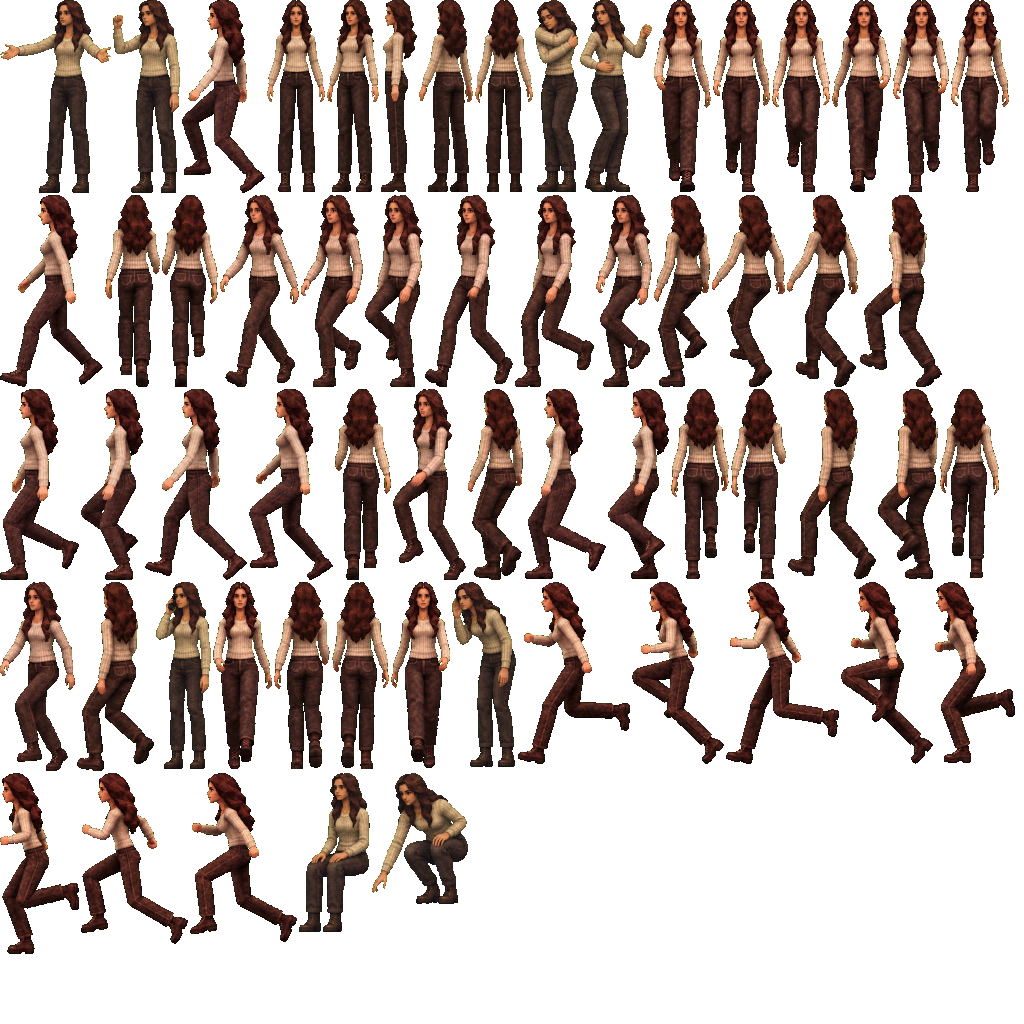
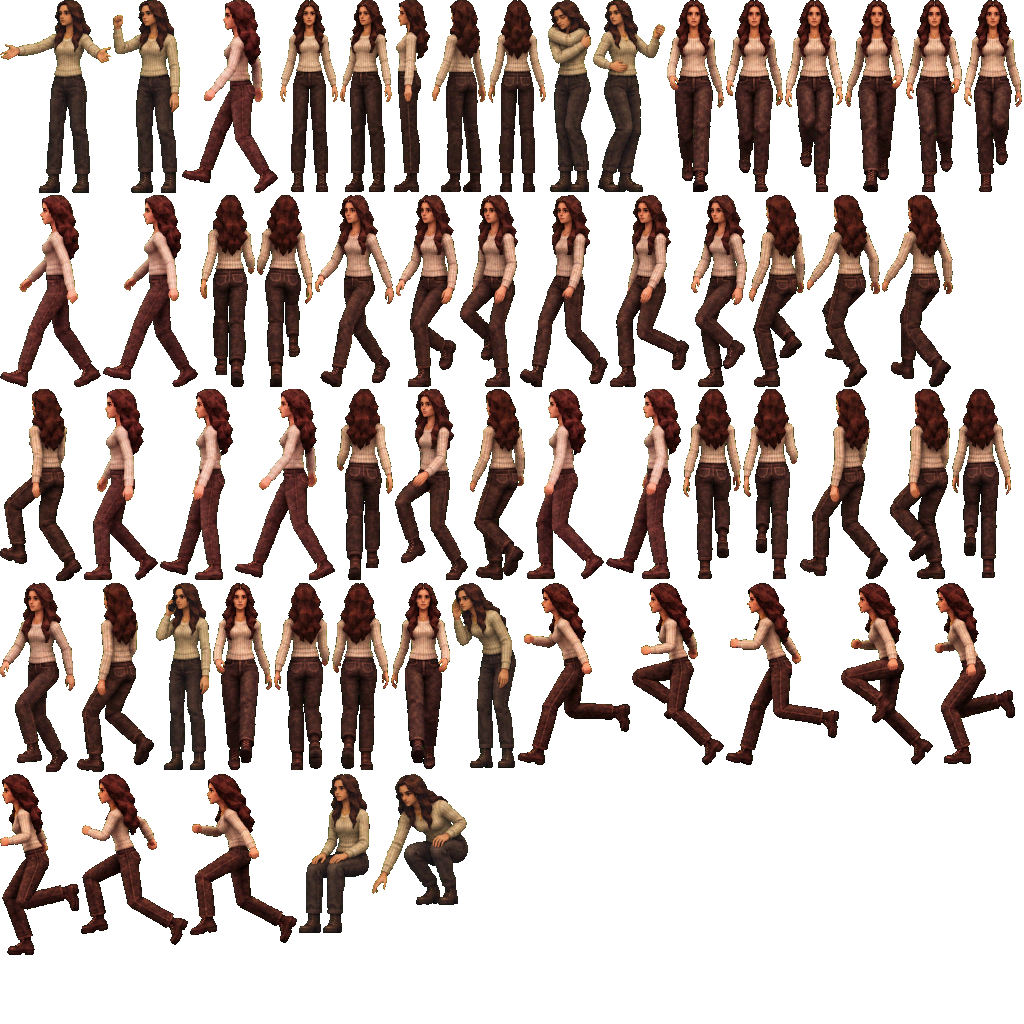
Smartphone UI and natural side walks
- Messages show on a dark smartphone (status bar, contact, chat bubbles)
  instead of the flip phone; wording says put the phone away
- New GPT side-walk cycles for Rufki and Argjila with low, natural steps;
  even timing for them (weighted timing stays on the diagonal cycles)

Claude-Session: https://claude.ai/code/session_01SGdApBhSdjRp9Ng7MrzK8h

diff --git a/one-minute-away/index.html b/one-minute-away/index.html
@@ -160,16 +160,21 @@ body.modal #hud { opacity: 0; }
 .page.sealed .ptext span { display: block; font-size: 0.75em; color: var(--dim); margin-top: calc(var(--u) * 4); }
 
 /* ---------- flip phone ---------- */
-.phone { position: absolute; inset: 0; background: rgba(0, 0, 0, 0.6); }
-.pshell { position: absolute; left: 50%; top: calc(var(--u) * 6); height: calc(var(--u) * 228); transform: translateX(-62%) rotate(-4deg); image-rendering: pixelated; opacity: 0.95; }
-.pscreen { position: absolute; left: calc(var(--u) * 116); top: calc(var(--u) * 46); width: calc(var(--u) * 88); height: calc(var(--u) * 62); background: #9fb08a;
-  color: #1d2a1a; border: calc(var(--u) * 1) solid #2a3226; display: flex; flex-direction: column; font-size: calc(var(--u) * 7); overflow: hidden; box-shadow: inset 0 0 calc(var(--u) * 6) rgba(0,0,0,0.35); }
-.phead { display: flex; justify-content: space-between; padding: 0 calc(var(--u) * 2); background: #2a3226; color: #b7c8a0; font-size: calc(var(--u) * 6.5); }
-.pbody { flex: 1; overflow: hidden; padding: calc(var(--u) * 1.5); display: flex; flex-direction: column; gap: calc(var(--u) * 1.5); justify-content: flex-end; }
-.pmsg { line-height: 1; max-width: 92%; }
-.pmsg.me { align-self: flex-end; text-align: right; }
-.pmsg i { display: block; font-style: normal; font-size: 0.8em; opacity: 0.6; }
-.popts { position: absolute; left: calc(var(--u) * 200); right: calc(var(--u) * 10); bottom: calc(var(--u) * 30); background: var(--panel); border: var(--u) solid var(--amber); padding: calc(var(--u) * 4); }
+.phone { position: absolute; inset: 0; background: rgba(0, 0, 0, 0.62); }
+.pwrap { position: absolute; left: calc(var(--u) * 46); top: calc(var(--u) * 10); height: calc(var(--u) * 220); aspect-ratio: 184 / 360; transform: rotate(-3deg); filter: drop-shadow(0 calc(var(--u) * 4) calc(var(--u) * 6) #000); }
+.pshell { position: absolute; inset: 0; width: 100%; height: 100%; image-rendering: pixelated; }
+.pscreen { position: absolute; left: 8.8%; right: 8.2%; top: 10.4%; bottom: 8.6%; background: linear-gradient(#101218, #0a0b0f); display: flex; flex-direction: column; overflow: hidden; font-size: calc(var(--u) * 6.4); color: #e6e2d8; }
+.pscreen::after { content: ""; position: absolute; inset: 0; pointer-events: none; background: linear-gradient(130deg, rgba(255,255,255,0.07), transparent 40%), repeating-linear-gradient(0deg, rgba(0,0,0,0.18) 0 1px, transparent 1px 3px); }
+.pstat { display: flex; justify-content: space-between; padding: calc(var(--u) * 1.5) calc(var(--u) * 3) 0; font-size: calc(var(--u) * 4.6); color: #8d8a80; }
+.phead { text-align: center; padding: calc(var(--u) * 2) calc(var(--u) * 2) calc(var(--u) * 2.5); border-bottom: 1px solid #262830; }
+.phead b { display: block; font-weight: normal; color: #f0ece0; font-size: calc(var(--u) * 7); letter-spacing: 0.06em; }
+.phead span { display: block; color: #7d7a72; font-size: calc(var(--u) * 4.6); margin-top: calc(var(--u) * 0.5); }
+.pbody { flex: 1; overflow: hidden; padding: calc(var(--u) * 3) calc(var(--u) * 2.5); display: flex; flex-direction: column; gap: calc(var(--u) * 2.5); justify-content: flex-end; }
+.pmsg { line-height: 1.2; max-width: 84%; padding: calc(var(--u) * 2) calc(var(--u) * 3); border-radius: calc(var(--u) * 4); background: #2a2c34; align-self: flex-start; animation: pin 0.25s ease-out; }
+.pmsg.me { align-self: flex-end; background: #2f5f7a; color: #f2f6f8; }
+.pmsg i { display: block; font-style: normal; font-size: 0.72em; opacity: 0.55; margin-top: calc(var(--u) * 1); }
+@keyframes pin { from { opacity: 0; transform: translateY(calc(var(--u) * 3)); } to { opacity: 1; transform: none; } }
+.popts { position: absolute; left: calc(var(--u) * 178); right: calc(var(--u) * 10); bottom: calc(var(--u) * 30); background: var(--panel); border: var(--u) solid var(--amber); padding: calc(var(--u) * 4); }
 .popts:empty { display: none; }
 
 /* ---------- mini-games ---------- */

diff --git a/one-minute-away/js/ui.js b/one-minute-away/js/ui.js
@@ -3,7 +3,7 @@
 // lower dialogue panel (portrait left, name + two lines right),
 // POV tag top-left (teal), clock top-right (amber), captions for
 // every audio cue, choice / inventory / route map in the same
-// border, flip-phone messages, sealed memory pages.
+// border, phone messages, sealed memory pages.
 // ============================================================
 import { portraitURL, propURL, iconURL } from "./assets.js";
 
@@ -50,6 +50,9 @@ export function moodOf(text = "", base) {
   if (SMILE.test(text)) return "smile";
   return base || "neutral";
 }
+
+// the time shown in the phone's status bar: the game clock if it reads like a time
+const G0clock = (G) => { const t = (G.state && G.state.clock) || "4:04"; return /^\d{1,2}:\d{2}/.test(t) ? t.slice(0, 5) : "4:04"; };
 
 export class UI {
   constructor(G) {
@@ -402,18 +405,22 @@ export class UI {
     });
   }
 
-  // ---------- flip phone ----------
+  // ---------- the phone (a smartphone: it's 2025-2026) ----------
   // messages: [{ from: "me"|"them", text, time }]; replies: optional choices shown under the thread
-  phone({ contact = "", date = "", messages = [], replies = null, closeLabel = "Close the phone" }) {
+  phone({ contact = "", date = "", messages = [], replies = null, closeLabel = "Put the phone away" }) {
     return new Promise((res) => {
       const c = el("div", "phone");
+      const wrap = el("div", "pwrap");
+      const shell = el("img", "pshell");
+      shell.src = propURL("smartphone");
       const scr = el("div", "pscreen");
-      const head = el("div", "phead", `<span>${esc(contact)}</span><span>${esc(date)}</span>`);
+      const stat = el("div", "pstat", `<span>${esc(G0clock(this.G))}</span><span>▮▮▮ ▭</span>`);
+      const head = el("div", "phead", `<b>${esc(contact)}</b><span>${esc(date)}</span>`);
       const body = el("div", "pbody");
-      scr.append(head, body);
+      scr.append(stat, head, body);
+      wrap.append(shell, scr);
       const opts = el("div", "popts");
-      c.append(el("img", "pshell"), scr, opts);
-      c.querySelector(".pshell").src = propURL("flipphone");
+      c.append(wrap, opts);
       const G = this.G;
       let shown = 0, t = 0, sel = 0, done = false;
       const addMsg = (mm) => {

diff --git a/one-minute-away/js/assets.js b/one-minute-away/js/assets.js
@@ -28,7 +28,7 @@ const SHEETS = ["rufki", "argjila", "other", "unmet", "unsaid", "keeper", "kidR"
 const CAR = ["side_low", "side_up", "front_low", "front_up", "back_low", "back_up", "roof", "hood", "wheel"];
 const SKY = ["night", "sunset", "storm"];
 export const DECALS = ["posters", "missing", "fogmart", "emberdeli", "linden", "st404", "graffiti", "concert", "busstop", "newsbox", "ladder", "boarded", "puddle", "drain", "noparking", "floating"];
-export const PROPS = ["sedan", "payphone", "flipphone", "door", "clock", "photo", "towel", "map", "cart", "chair", "rotary", "book"];
+export const PROPS = ["sedan", "payphone", "flipphone", "smartphone", "door", "clock", "photo", "towel", "map", "cart", "chair", "rotary", "book"];
 export const PORTRAITS = ["rufki", "argjila", "rufki_big", "argjila_big", "other", "unmet", "unsaid", "keeper", "kid_rufki", "kid_argjila", "confidante", "friend", "dancer"];
 
 // painted texture pages: procedural key -> [file, uv scale (x, y)]

diff --git a/one-minute-away/js/chapters.js b/one-minute-away/js/chapters.js
@@ -633,7 +633,7 @@ async function ch4(G) {
   });
   let waited = 0;
   while (waited < 2) {
-    const c = await G.choose("The phone is in her hand.", ["Revisit a message", "Close the phone and wait"]);
+    const c = await G.choose("The phone is in her hand.", ["Revisit a message", "Put the phone down and wait"]);
     if (c === 0) {
       await G.phone({ contact: "RUFKI", date: "JAN 2026", messages: [{ from: "them", text: "▒▒▒ ▒▒▒▒ ▒▒▒▒ ▒▒▒", time: "" }, { from: "me", text: "▒▒▒▒ ▒▒▒ ▒▒", time: "" }, { from: "them", text: "▒▒▒▒▒ ▒▒ ▒▒▒", time: "" }] });
       await G.say([HER("We said we missed each other. We talked about wishing the other person were there and about seeing each other again.")]);

diff --git a/one-minute-away/js/actors.js b/one-minute-away/js/actors.js
@@ -151,8 +151,8 @@ export class Character {
         const n = L.length;
         let u = ((this.phase + this.early) / (Math.PI * 2)) % 1; if (u < 0) u += 1;
         let i = Math.floor(u * n) % n;
-        // side-on, the passing frames (3 and 7) lift the knee: hold contact and weight frames longer
-        if (n === 8 && grp !== "walkF" && grp !== "walkB" && grp !== "runS") {
+        // the diagonal cycles' passing frames (3 and 7) lift the knee: hold contact and weight frames longer
+        if (n === 8 && (grp === "walkFQ" || grp === "walkBQ")) {
           const W8 = [1.2, 1.15, 0.6, 1.05, 1.2, 1.15, 0.6, 1.05], tot = 8;
           let acc = 0, t = u * tot; i = 7;
           for (let k = 0; k < 8; k++) { acc += W8[k]; if (t < acc) { i = k; break; } }
